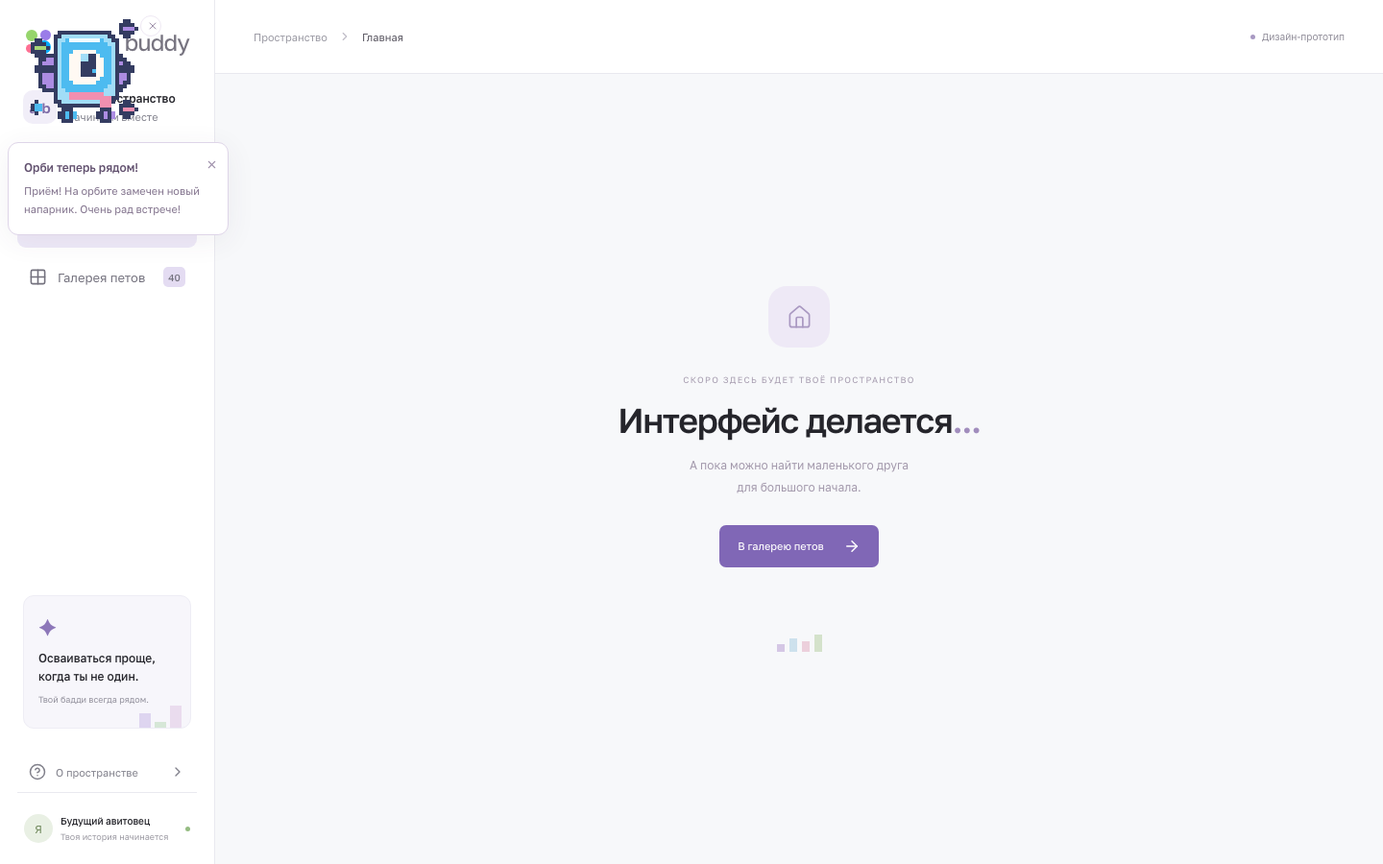
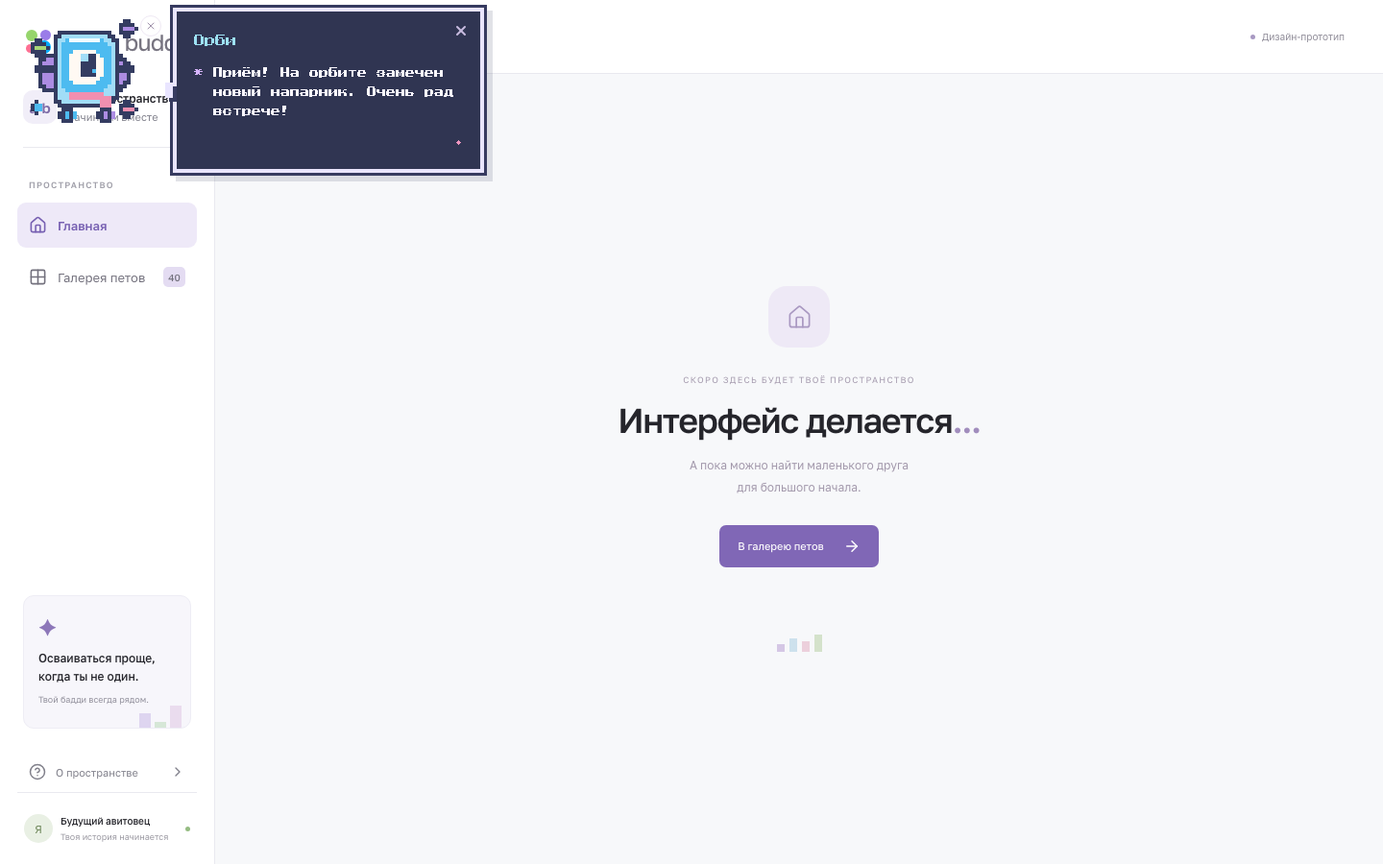
Document and verify the Next.js Tailwind migration

Changed region(s): [[0.0938, 0.0, 0.375, 0.2178], [0.0, 0.1867, 0.125, 0.28]]

diff --git a/frontend/README.md b/frontend/README.md
@@ -1,102 +1,67 @@
 # Frontend
 
-React + TypeScript + Vite. Код организован по [Feature-Sliced Design](https://feature-sliced.design/docs/reference/layers).
+Next.js 16.4, React 19, TypeScript и Tailwind CSS 4.3. Приложение следует Feature-Sliced Design; Next.js App Router отвечает за входные маршруты.
 
 ```text
+app/
+  layout.tsx                     Серверный layout, metadata и локальные шрифты
+  page.tsx                       Главная /
+  pets/page.tsx                  Галерея /pets и параметр ?pet=orbit
+  globals.css                    Только подключение Tailwind и его конфига
 src/
-  main.tsx                       Точка входа React
-  app/
-    app.tsx                      Композиция провайдеров, оболочки и страниц
-    router/                      Маршруты и история браузера
-    styles/                      Глобальные стили и токены
-  pages/
-    home/                        Главная-заглушка
-    pet-gallery/                 Страница выбора пета
-  widgets/
-    workspace-shell/             Навигация и рабочая оболочка
-    pet-collection/              Коллекция, фильтры и карточки
-    pet-inspector/               Крупный просмотр и действия
-    pet-companion/               Спутник в углу экрана
-  features/
-    pet/                         Группа независимых слайсов действий с петом
-      choose/                    Выбор спутника
-      favorite/                  Лайк и удаление из избранных
-      download/                  Скачивание SVG
-      greet/                     Демонстрационное приветствие
-      toggle-animation/          Пауза и запуск анимации
-  entities/
-    pet/
-      config/                    Каталог персонажей и палитры
-      model/                     Типы, предпочтения, провайдер и хук
-      lib/                       Рисование спрайтов и localStorage
-      ui/                        PixelPet, PetCard и их стили
-  shared/
-    config/                      Публичная конфигурация маршрутов
-    ui/                          Фирменный знак и общие визуальные примитивы
+  _app/                          Клиентские провайдеры и композиция оболочки
+  _pages/                        Главная и галерея
+  widgets/                       Оболочка, коллекция, инспектор, спутник
+  features/pet/                  Выбор, лайки, SVG, приветствие, пауза
+  entities/pet/                  Данные, предпочтения, спрайты и UI петов
+  shared/                        Общая конфигурация и фирменный знак
+public/fonts/                    Локальные шрифты и OFL-лицензии
+tailwind.config.ts               Тема, брейкпоинты и keyframes
+postcss.config.mjs               Плагин Tailwind
+next.config.ts                   Настройки Next.js
+design/captures/                 Скриншоты и отчёты проверок
 ```
 
-## Границы
+## Архитектура
 
-- Импорты направлены вниз: `app → pages → widgets → features → entities → shared`. Допустимо пропускать слои.
-- Слайсы одного слоя не импортируют друг друга. `features/pet` — группа слайсов, а не общий модуль с публичным API.
-- Каждый слайс публикует нужные экспорты через `index.ts`. Между слайсами импортируй только публичный API, например `@/entities/pet` или `@/features/pet/choose`.
-- Внутри слайса используй относительные импорты, чтобы не создавать циклы через собственный `index.ts`.
-- `app` и `shared` разделены на сегменты, а не на бизнес-слайсы. Публичные точки входа общего UI — `@/shared/ui/avito-mark`, `@/shared/ui/primitives`; конфигурации — `@/shared/config`.
-- Провайдер предпочтений пета собирается в `app`, а состояние и доступ к нему принадлежат сущности `pet`. Страницы и виджеты не обращаются к внутренним файлам сущности.
-- Стили лежат рядом с владельцем в `ui/styles.css` и подключаются через публичный API. В `app/styles` остаются глобальные настройки, сброс и системный reduced motion.
-- Нижние слои не импортируют роутер из `app`: оболочка и главная получают обработчики навигации через props.
+- Направление импортов: `_app → _pages → widgets → features → entities → shared`. Префиксы `_app` и `_pages` исключают конфликт с зарезервированными каталогами Next.js.
+- Каталог маршрутов `app/` импортирует публичные API FSD. Клиентская композиция находится в `src/_app`; страницы публикуются из `src/_pages/*/index.ts`.
+- Слайсы одного слоя независимы. Между слайсами используй публичные API, например `@/entities/pet`, а внутри слайса — относительные импорты.
+- Страница галереи — клиентская граница, её серверный маршрут передаёт разобранный searchParams. Metadata и локальные шрифты подключаются на сервере.
+- Предпочтения читаются из localStorage после гидратации. До загрузки сохранённых лайков запись отключена, поэтому существующее избранное не затирается пустым массивом.
+- Навигация использует Next Link и Next router. Layout сохраняет провайдер и спутника при переходах между страницами.
 
-Правила импортов и публичных API проверяет `npm run check:architecture`. Steiger также показывает предупреждения о самостоятельных слайсах с одним потребителем: это подсказка по размеру текущего прототипа, а не разрешение нарушать границы слоёв.
+Steiger проверяет границы слоёв; только подсказка о префиксах `_app`/`_pages` отключена для этих каталогов. Существующие рекомендации об одном потребителе остаются предупреждениями.
 
-## Команды
+## Стили
 
-Из каталога `frontend/`:
+Используй Tailwind utility-классы прямо в TSX, включая адаптивность, состояния, псевдоэлементы и reduced motion. Не добавляй обычные CSS-файлы компонентов, CSS Modules или CSS-in-JS. `app/globals.css` — двухстрочная точка входа Tailwind, а тема и анимации задаются в `tailwind.config.ts`. Inline style допустим только для данных времени выполнения: положения спутника, палитры выбранного пета, масштаба и задержки кадров SVG.
+
+Брейкпоинты сохраняют прежний дизайн: xs — 361 px, sm — 651 px, md — 851 px, lg — 1201 px, xl — 1600 px. Golos Text и Press Start 2P подключены через next/font/local. Лицензии рядом со шрифтами.
+
+## Запуск и проверки
+
+Из `frontend/`, нужен Node.js 20.9+:
 
 ```sh
 npm ci
-npm run dev -- --port 5173
+npm run dev
+npm run typecheck
 npm run check:architecture
 npm run build
+npm run start
 ```
 
-Сборка: `dist/` внутри `frontend/`. Локальный lockfile: `package-lock.json` рядом с `package.json`; зависимости — в `node_modules/` этого же каталога. Путь `@/` соответствует `src/` в Vite и TypeScript. Корневого npm workspace нет.
+Dev и production-сервер по умолчанию доступны на http://localhost:5173/. Для другого порта: `npm run dev -- --port 3000`. Production start выполняется после build. Артефакты Next.js находятся в `.next/` и игнорируются Git. Vite и старый React DOM entrypoint удалены. Корневого npm workspace нет.
 
-Для изменения образов используй `src/entities/pet/config/pets.ts` и `src/entities/pet/lib/mascot-sprites.ts` (новые маскоты), `src/entities/pet/lib/sprite.ts` (исходная серия и диспетчер отрисовки). Сохраняй чёткие пиксели, все четыре кадра, различимые силуэты и reduced motion. Общие инструкции и журнал — `../AGENTS.md` и `../CONTEXT.md`.
+## Петы и состояние
 
-## Серии персонажей
+Всего 40 персонажей, по четыре кадра. «Орби» — оригинал и 15 вариаций (16), «Раньше» — 25, «Все» — 40. Оригинал `orbit` находится в обеих тематических группах, без дублирования общего каталога. `/pets?pet=orbit` открывает его в предпросмотре, не меняя сохранённого спутника.
 
-`src/entities/pet/config/mascots.ts` содержит 15 новых концептов маскота Авито. `config/pets.ts` объединяет их с 10 исходными персонажами и новой серией Орби, сохраняя прежние ID и выбор в localStorage.
+Оригинальный Орби рисуется в `entities/pet/lib/mascot-sprites.ts` на 32×32 с боковыми деталями, ножками и шарфом. Его четыре исходных кадра сохраняются. Вариации `orbi-*` рисуются отдельно на 64×64: `orbi-base.ts`, `orbi-sprites.ts`, `orbi-details.ts`, `orbi-detail-painter.ts`. Они парят без конечностей. Данные и палитры — в `entities/pet/config/`.
 
-Новые спрайты рисуются в `lib/mascot-sprites.ts`, общие примитивы сетки — в `lib/pixel-painter.ts`. Каждый маскот имеет четыре различающихся кадра. При добавлении персонажей счётчики коллекции и навигации обновляются из массива данных.
+Избранное хранится в `buddy-favorites`, выбранный спутник — в `buddy-pet`, положение — в `buddy-position`. Спутника можно перетаскивать мышью/пальцем или двигать стрелками. По клику слева открывается пиксельная реплика с печатью по буквам; у краёв окно меняет сторону. Кнопка «Показать сразу» завершает печать. При reduced motion или паузе весь текст виден сразу.
 
+UI-проверки: `design/captures/verify-next-migration.mjs`, `verify-pixel-dialogue.mjs`, `verify-companion-drag.mjs`. Используют Playwright из локальной установки design-studio; при другом окружении укажи установленный Playwright в import.
 
-## Семейство Орби
-
-`config/orbi-family.ts` содержит 15 новых вариаций персонажа `orbit`, который понравился пользователю. Всего в каталоге 40 персонажей; фильтры «Орби», «Раньше», «Все» показывают 16, 25 и 40 вариантов: оригинальный Орби входит и в свою группу, и в предыдущую серию. «Избранные» показывает все отмеченные сердечком варианты независимо от серии.
-
-`lib/orbi-sprites.ts` сохраняет общие черты семейства: один большой глаз, тёмный пиксельный контур, маленькие конечности и спутники. Варианты отличаются формой корпуса, верхними антеннами/частицами, отделкой, зрачком, направлением взгляда и цветами. Ноги, двигатели и боковые детали, похожие на руки, удалены по последнему уточнению пользователя.
-
-`Pet` — дискриминируемое объединение: категория `orbi` требует `orbiDesign` со структурными параметрами. Порядок цветов в палитре этой серии: контур, корпус, основной акцент, дополнительный акцент, необязательный пятый цвет спутника. Оттенки бликов вычисляются без сглаживания. Данные, модель и рисование остаются внутри FSD-слайса `entities/pet`.
-
-## Избранные
-
-`features/pet/favorite` — действие лайка. Оно используется в коллекции и инспекторе. `entities/pet` хранит favoriteIds в общем провайдере предпочтений и восстанавливает их из `buddy-favorites` в localStorage. Повреждённый JSON, дубли и неизвестные ID отбрасываются; при недоступном хранилище избранные работают до закрытия текущей сессии. Выбор спутника остаётся в отдельном ключе `buddy-pet`.
-
-`PetCard` принимает слот `actions`: сущность не импортирует фичу лайка. Карточка — article с отдельной кнопкой предпросмотра, лайк — соседняя кнопка. Вложенных кнопок и побочного открытия предпросмотра при лайке нет. Вкладка «Избранные» имеет счётчик, удаление без перезагрузки и пустое состояние. На узких экранах фильтры размещаются в две строки.
-
-Оригинальный Орби (`orbit`) — `defaultPet` из публичного API сущности Pet. Он первый во вкладке «Орби» и используется для предпросмотра при отсутствии сохранённого выбора. Параметр `?pet=orbit` открывает оригинал явно; он меняет предпросмотр, но не записывает выбранного спутника и не меняет избранные.
-
-
-## Детальная отрисовка вариантов Орби
-
-У категории `orbi` есть обязательный `orbiDesign.finish`: 15 вариантов отделки от неоновых и стеклянных до керамических и ботанических. `orbi-base.ts` задаёт базовую форму 32×32; `orbi-sprites.ts` строит изображение 64×64; `orbi-details.ts` содержит отделку и формы частиц, `orbi-detail-painter.ts` — целочисленные примитивы. Корпус и внешние частицы рисуются раздельно, детали ограничены маской, чтобы не появлялись конечности или выступы.
-
-PixelPet, pixelRuns и SVG-экспорт автоматически учитывают размер сетки. Оригинал и остальные прежние персонажи остаются 32×32; масштаб и SVG оригинала не изменились.
-
-Последняя правка оригинала — самая первая версия `orbit` с боковыми деталями, ножками и шарфом. Она изолирована в `mascot-sprites.ts` и полностью совпадает с четырьмя исходными кадрами. Исключение касается только оригинала; `orbi-*` по-прежнему парят без конечностей.
-
-## Материалы петов
-
-Весь фронтенд и его вспомогательные файлы находятся внутри этой папки. Данные и отрисовка петов — `src/entities/pet/`; изображения, анимации, скриншоты и отчёты — `design/captures/`; журнал дизайнерских решений — `design/decisions.md`. Папка `design/` перенесена из корня без изменения файлов изображений.
-
-Запуск из корня репозитория без перехода в каталог: `npm --prefix frontend run dev -- --port 5173`. Установка: `npm --prefix frontend ci`. Основной вариант — перейти в `frontend/` и выполнять команды здесь.
+Общие требования — `../AGENTS.md`, дизайн — `../DESIGN.md`, история — `../CONTEXT.md`.

diff --git a/CONTEXT.md b/CONTEXT.md
@@ -19,13 +19,15 @@
 - Проект: **AI-buddy — ИИ-наставник для стажёров**, кейс Авито для Hack&Change 2026.
 - Исходное ТЗ полностью перенесено в `TASK.md` из PDF на 19 страницах; сохранены требования, критерии оценки, справочные разделы и 17 внешних ссылок.
 - Исходный PDF удалён по просьбе пользователя после проверки переноса. Для дальнейшей работы используй `TASK.md`.
-- Создан локальный дизайн-прототип на React + TypeScript + Vite: главная `/` и галерея `/pets` с 40 пиксельными персонажами: 15 новыми вариациями Орби, 15 предыдущими концептами маскота Авито и 10 исходными петами. Фронтенд находится в `frontend/` и следует FSD; `backend/` содержит README будущей серверной части. Дизайн описан в `DESIGN.md`, текущий объём — в `PRODUCT.md`, архитектура — в `frontend/README.md`.
+- Создан локальный дизайн-прототип на Next.js 16 + React 19 + TypeScript + Tailwind CSS 4: главная `/` и галерея `/pets` с 40 пиксельными персонажами: 15 новыми вариациями Орби, 15 предыдущими концептами маскота Авито и 10 исходными петами. Фронтенд находится в `frontend/` и следует FSD; `backend/` содержит README будущей серверной части. Дизайн описан в `DESIGN.md`, текущий объём — в `PRODUCT.md`, архитектура — в `frontend/README.md`.
 - Пользователь предложил рабочую оболочку по аналогии со стендом МАЙТИ Т-Банка и пиксельного пет-агента, который будет задавать вопросы. На текущем этапе согласован только визуальный дизайн: главная-заглушка и выбор персонажа. AI, корпоративные интеграции и сценарии хакатона ещё не реализованы.
-- Локальный dev-сервер запущен на `http://localhost:5173/`; галерея — `http://localhost:5173/pets`. Для запуска перейти в `frontend/`, выполнить `npm ci`, затем `npm run dev -- --port 5173`. Фронтенд — самостоятельное npm-приложение с локальными package.json, package-lock.json, node_modules и .gitignore. Проверки из `frontend/`: `npm run build`, `npm run check:architecture`. Процесс сервера может завершиться при закрытии рабочей сессии.
+- Локальный dev-сервер запущен на `http://localhost:5173/`; галерея — `http://localhost:5173/pets`. Для запуска перейти в `frontend/`, выполнить `npm ci`, затем `npm run dev`. Фронтенд — самостоятельное npm-приложение с локальными package.json, package-lock.json, node_modules и .gitignore. Проверки из `frontend/`: `npm run build`, `npm run typecheck`, `npm run check:architecture`. Процесс сервера может завершиться при закрытии рабочей сессии.
 - В корне проекта — только Markdown-файлы и папки `frontend/`, `backend/` (служебная `.git/` сохранена). Все материалы петов и визуальные отчёты теперь находятся в `frontend/design/`; исторические пути `design/*` в журнале ниже соответствуют `frontend/design/*`.
 - У 15 вариаций Орби — парящий одноглазый корпус без конечностей; они проработаны на сетке 64×64. Оригинальный `orbit` по последней явной коррекции восстановлен в самой первой версии на 32×32 с фиолетовыми боковыми деталями, ножками и розовым шарфом. Не путать оригинал с промежуточной версией без конечностей. Первым во вкладке «Орби» снова показывается оригинальный `orbit` со скриншота пользователя, затем 15 вариаций. Предыдущие 25 персонажей доступны в «Раньше».
 - Добавлены лайки в карточках и крупном просмотре, вкладка «Избранные» со счётчиком и сохранением в localStorage (`buddy-favorites`). Лайк независим от предпросмотра и выбора спутника (`buddy-pet`).
 - Следующий шаг: получить обратную связь по конкретным вариантам семейства Орби. Не начинать реализацию всей платформы без следующего поручения.
+
+- Маршруты Next.js — frontend/app; FSD-слои композиции и страниц — frontend/src/_app и frontend/src/_pages. Все компоненты используют Tailwind utility-классы; обычных CSS-файлов компонентов нет. Next build создаёт .next/, production запускается npm run start. Локальные шрифты не требуют Google Fonts при сборке.
 
 ## Формат новой записи
 
@@ -210,3 +212,15 @@
 - **Доступность:** полная реплика объявляется один раз; видимая посимвольная версия скрыта от скринридера. При reduced motion и общей паузе текст показывается сразу; кнопки и перетаскивание сохранены.
 - **Проверки:** Playwright на 1440×900 и 390×844 проверил размещение слева, рост текста, завершение без сброса, повторное открытие, анимацию речи, края, отличие клика от drag и reduced motion; ошибок браузера нет. Steiger — 0 ошибок, прежние 6 рекомендаций. Итоговые скриншоты pixel-dialogue-1440.png, pixel-dialogue-390.png и кадры печати в frontend/design/captures/. Сценарий verify-pixel-dialogue.mjs.
 - **Передача:** оригинальный спрайт не менялся, звук не добавлялся. Текст берётся из greeting выбранного персонажа; новые таймеры очищаются при закрытии/смене текста. Правила английских сообщений коммитов и лимита 150 строк прикладного кода сохранены.
+
+
+### 2026-11-11 — Агент: Codex — Миграция на Next.js и Tailwind
+
+- **Запрос:** React + TypeScript + Tailwind, без обычных CSS-файлов компонентов; перейти с Vite на Next.js.
+- **Стек:** Next.js 16.4.6, React/React DOM 19.3.1, TypeScript 5.9, Tailwind CSS и @tailwindcss/postcss 4.3.5. Vite, @vitejs/plugin-react, старые index.html и React DOM entrypoint удалены. package-lock обновлён целиком.
+- **Архитектура:** Next App Router расположен в frontend/app: layout, главная и pets. FSD-композиция и страницы переименованы в src/_app и src/_pages по руководству FSD для Next; остальные слои сохранены. Steiger распознаёт слои, подсказка о префиксах отключена только для этих двух каталогов, остальные проверки границ работают.
+- **Стили:** 14 CSS-файлов перенесены в Tailwind utility-классы в TSX, включая адаптивность, состояния, псевдоэлементы, кадры спрайтов и reduced motion. Единственный app/globals.css содержит две директивы подключения, тема и keyframes находятся в tailwind.config.ts. Inline style сохранены только для runtime-палитр, координат и задержек кадров.
+- **SSR и данные:** Next metadata задаёт заголовки; навигация использует Next Link/router. Провайдер читает localStorage после гидратации и до этого не записывает избранное. Браузерные API исключены из серверной инициализации. Прямой параметр ?pet=orbit передаётся с серверной страницы в клиентскую галерею, не меняя выбранного спутника. Все исходные спрайты, каталоги, ID и 4 кадра оригинального Орби сохранены без изменения файлов данных и отрисовки.
+- **Шрифты:** Golos Text добавлен локально с OFL-лицензией; оба шрифта подключаются через next/font/local без внешней сети при сборке или показе страницы.
+- **Проверки:** Next production build, tsc --noEmit и Steiger (0 ошибок, прежние 6 рекомендаций). Playwright прошёл оба маршрута, metadata, отсутствие hydration/browser errors, фильтры 16/25/40, сохранение лайков, выбор спутника, 32/64 SVG, экспорт SVG, паузу и переходы назад/вперёд. Ширины: 1440, 1366, 850, 650, 390, 320; горизонтальной прокрутки нет. Отдельно прошли существующие проверки мышиного/сенсорного drag и пиксельного диалога. Production-сервер next start проверен на обоих маршрутах и диалоге, ошибок нет. Скриншоты визуально просмотрены, отчёт next-tailwind-verification.json и сценарий verify-next-migration.mjs в frontend/design/captures/.
+- **Передача:** запуск из frontend: npm run dev (порт 5173), production — npm run build и npm run start; сборка в .next/. FSD public API и инструкции обновлены. Не возвращать CSS компонентов или Vite. Старая ignored-папка dist удалена.

diff --git a/README.md b/README.md
@@ -7,7 +7,7 @@
 В корне проекта находятся Markdown-документы и две папки приложения:
 
 ```text
-frontend/          Фронтенд на React + TypeScript + Vite, архитектура FSD
+frontend/          Фронтенд на Next.js + React + TypeScript + Tailwind CSS, архитектура FSD
   src/             Код интерфейса, данные и отрисовка всех петов
   public/          Статические файлы
   design/          Изображения петов, анимации, скриншоты и отчёты проверок
@@ -25,12 +25,12 @@ README.md          Этот файл
 
 ## Запуск
 
-Нужен Node.js 22.12+ или 24+ и npm. Все npm-команды выполняются в `frontend/`:
+Нужен Node.js 20.9+ и npm; для разработки рекомендуется актуальная LTS-версия Node.js. Все npm-команды выполняются в `frontend/`:
 
 ```sh
 cd frontend
 npm ci
-npm run dev -- --port 5173
+npm run dev
 ```
 
 - Главная: http://localhost:5173/
@@ -42,10 +42,10 @@ npm run dev -- --port 5173
 ```sh
 npm run build
 npm run check:architecture
-npm run preview
+npm run start
 ```
 
-Сборка проверяет TypeScript и создаёт `frontend/dist/`. Steiger проверяет направления импортов, независимость FSD-слайсов и публичные API. Подсказки о слайсах с одним потребителем остаются предупреждениями; нарушения границ — ошибки.
+Сборка Next.js проверяет TypeScript и создаёт `frontend/.next/`. `npm run start` запускает production-сервер после сборки; порт по умолчанию 5173. Steiger проверяет направления импортов, независимость FSD-слайсов и публичные API. Подсказки о слайсах с одним потребителем остаются предупреждениями; нарушения границ — ошибки.
 
 Фронтенд — самостоятельное приложение: его зависимости, lockfile и `node_modules/` находятся внутри `frontend/`. Корневого npm workspace больше нет.
 
@@ -63,6 +63,12 @@ npm run preview
 
 Оригинальный Орби — самая первая версия с фиолетовыми боковыми деталями, ножками и розовым шарфом. Остальные 15 вариаций доработаны отдельно и парят без конечностей.
 
-Это этап визуального дизайна. AI, корпоративные интеграции, авторизация и другие сценарии полного ТЗ ещё не реализованы. Тестовые учётные данные и ключи API не нужны. Golos Text загружается через Google Fonts; без сети используется системный шрифт.
+Это этап визуального дизайна. AI, корпоративные интеграции, авторизация и другие сценарии полного ТЗ ещё не реализованы. Тестовые учётные данные и ключи API не нужны. Golos Text и пиксельный Press Start 2P подключены локально через next/font/local, без запросов к Google Fonts при запуске или сборке.
 
 Все материалы петов и визуальных проверок: [`frontend/design/`](frontend/design/). Решения по интерфейсу: [`frontend/design/decisions.md`](frontend/design/decisions.md). Текущий контекст: [`CONTEXT.md`](CONTEXT.md).
+
+## Стек и стили
+
+Next.js 16 (App Router), React 19, TypeScript и Tailwind CSS 4. Все стили компонентов — utility-классы в TSX. `frontend/app/globals.css` содержит только подключение Tailwind и его TypeScript-конфига; отдельных CSS-файлов компонентов нет. Анимации и тема находятся в `frontend/tailwind.config.ts`.
+
+Маршруты — `frontend/app/`. В FSD-слоях `src/_app` и `src/_pages` используется префикс, чтобы Next.js не принимал их за каталоги маршрутов. Остальные слои сохраняют прежние имена.

diff --git a/AGENTS.md b/AGENTS.md
@@ -7,7 +7,7 @@
 - Для интерфейса придерживайся `DESIGN.md`. Новые маскоты рисуются в `frontend/src/entities/pet/lib/mascot-sprites.ts`, исходная серия и диспетчер — в `frontend/src/entities/pet/lib/sprite.ts`; данные и палитры находятся в `frontend/src/entities/pet/config/mascots.ts` и `frontend/src/entities/pet/config/pets.ts` на целочисленной пиксельной сетке; исходные персонажи — 32×32, детальные вариации Орби — 64×64. Проверяй все кадры и поддержку reduced motion.
 - Перед завершением изменений приложения выполни `npm run build` и проверь изменённые экраны на десктопе и телефоне.
 
-- Фронтенд находится в `frontend/` и следует FSD: `app → pages → widgets → features → entities → shared`. Используй публичные API слайсов (`index.ts`), не допускай импортов вверх и между слайсами одного слоя. Подробности — в `frontend/README.md`.
+- Фронтенд находится в `frontend/` и следует FSD: `_app → _pages → widgets → features → entities → shared`. Используй публичные API слайсов (`index.ts`), не допускай импортов вверх и между слайсами одного слоя. Подробности — в `frontend/README.md`.
 - Серверный код размещай в `backend/`. Пока там только описание; реализация API требует отдельной задачи.
 - Фронтенд — самостоятельное приложение. Выполняй `npm ci`, `npm run dev`, `npm run build`, `npm run check:architecture` внутри `frontend/`; его package.json, package-lock.json и node_modules находятся там же. Для вызова из корня можно использовать `npm --prefix frontend run build`. Корневого npm workspace нет. Проверяй архитектуру после изменений структуры или импортов.
 
@@ -24,3 +24,6 @@
 - Write code comments and Git commit titles/bodies in English. Keep user-facing interface text and project documentation in Russian unless requested otherwise.
 
 - Keep application-code changes in each commit within 150 added/deleted lines. Configuration, dependency lockfiles, documentation, and verification reports are exempt; commit them as complete logical changes instead of splitting them to meet this limit.
+
+- Frontend stack: Next.js App Router, React, TypeScript, and Tailwind CSS. Keep Next route files in frontend/app and FSD composition/pages in frontend/src/_app and frontend/src/_pages to avoid Next route discovery conflicts.
+- Style components with Tailwind utilities in TSX. Do not add component CSS files, CSS Modules, or CSS-in-JS. frontend/app/globals.css is only the Tailwind entry; theme and keyframes live in frontend/tailwind.config.ts. Inline styles are reserved for runtime values such as pet palettes, positions, and sprite delays.

diff --git a/frontend/design/decisions.md b/frontend/design/decisions.md
@@ -20,3 +20,8 @@
 - 2026-11-10: 15 вариаций получили независимую детальную отрисовку 64×64 с разными материалами, оптикой и частицами. Оригинальный `orbit` не проходит через этот рендерер. Пользователь уточнил первоначальный референс: восстановлен исходный `orbit` с боковыми деталями, ножками и шарфом, по всем 4 кадрам первого снимка данных. Избранные и ID не сбрасывались.
 
 - 2026-11-10: по запросу пользователя в корне оставлены только Markdown-документы и папки frontend/backend. Все материалы петов перенесены в `frontend/design/`, фронтенд стал самостоятельным npm-приложением с локальными manifest, lockfile, зависимостями и .gitignore. Код и изображения персонажей при переносе не менялись.
+
+
+## 2026-11-11 — Next.js и Tailwind
+
+По запросу пользователя Vite заменён на Next.js App Router, а CSS компонентов — на Tailwind utilities. Визуальная система и все персонажи сохранены. FSD-слои app/pages переименованы в _app/_pages, чтобы Next.js не сканировал их как маршруты. next/font/local подключает локальные Golos Text и Press Start 2P. CSS entry содержит только две директивы Tailwind, keyframes вынесены в TypeScript-конфиг. Координаты, палитры и задержки спрайтов остаются динамическими style-значениями. Проверка localStorage после гидратации сохраняет существующие лайки.

diff --git a/PRODUCT.md b/PRODUCT.md
@@ -23,3 +23,6 @@ AI-buddy — рабочая оболочка для стажёра Авито с
 Все остальные 15 вариантов во вкладке «Орби» получили более подробную пиксельную отрисовку: собственный материал корпуса, крепления и окантовку линзы, панели, индикаторы и частицы разных форм. Оригинальный `orbit` не использует этот новый рендерер. Лайки, ID и сохранённый выбор сохранены.
 
 Структура репозитория по последнему запросу: в корне только Markdown-документы и `frontend/`, `backend/`. Все материалы петов, код, зависимости и конфигурация фронтенда находятся в `frontend/`; изображения и отчёты перенесены в `frontend/design/`. Установка и запуск выполняются из `frontend/`, корневого npm workspace нет.
+
+
+Текущий технологический стек по запросу пользователя: Next.js App Router + React + TypeScript + Tailwind CSS. Маршруты `/` и `/pets` обслуживает Next.js; FSD внутри `frontend/src` сохранён с префиксами `_app` и `_pages`. Отдельные CSS-файлы компонентов удалены.
